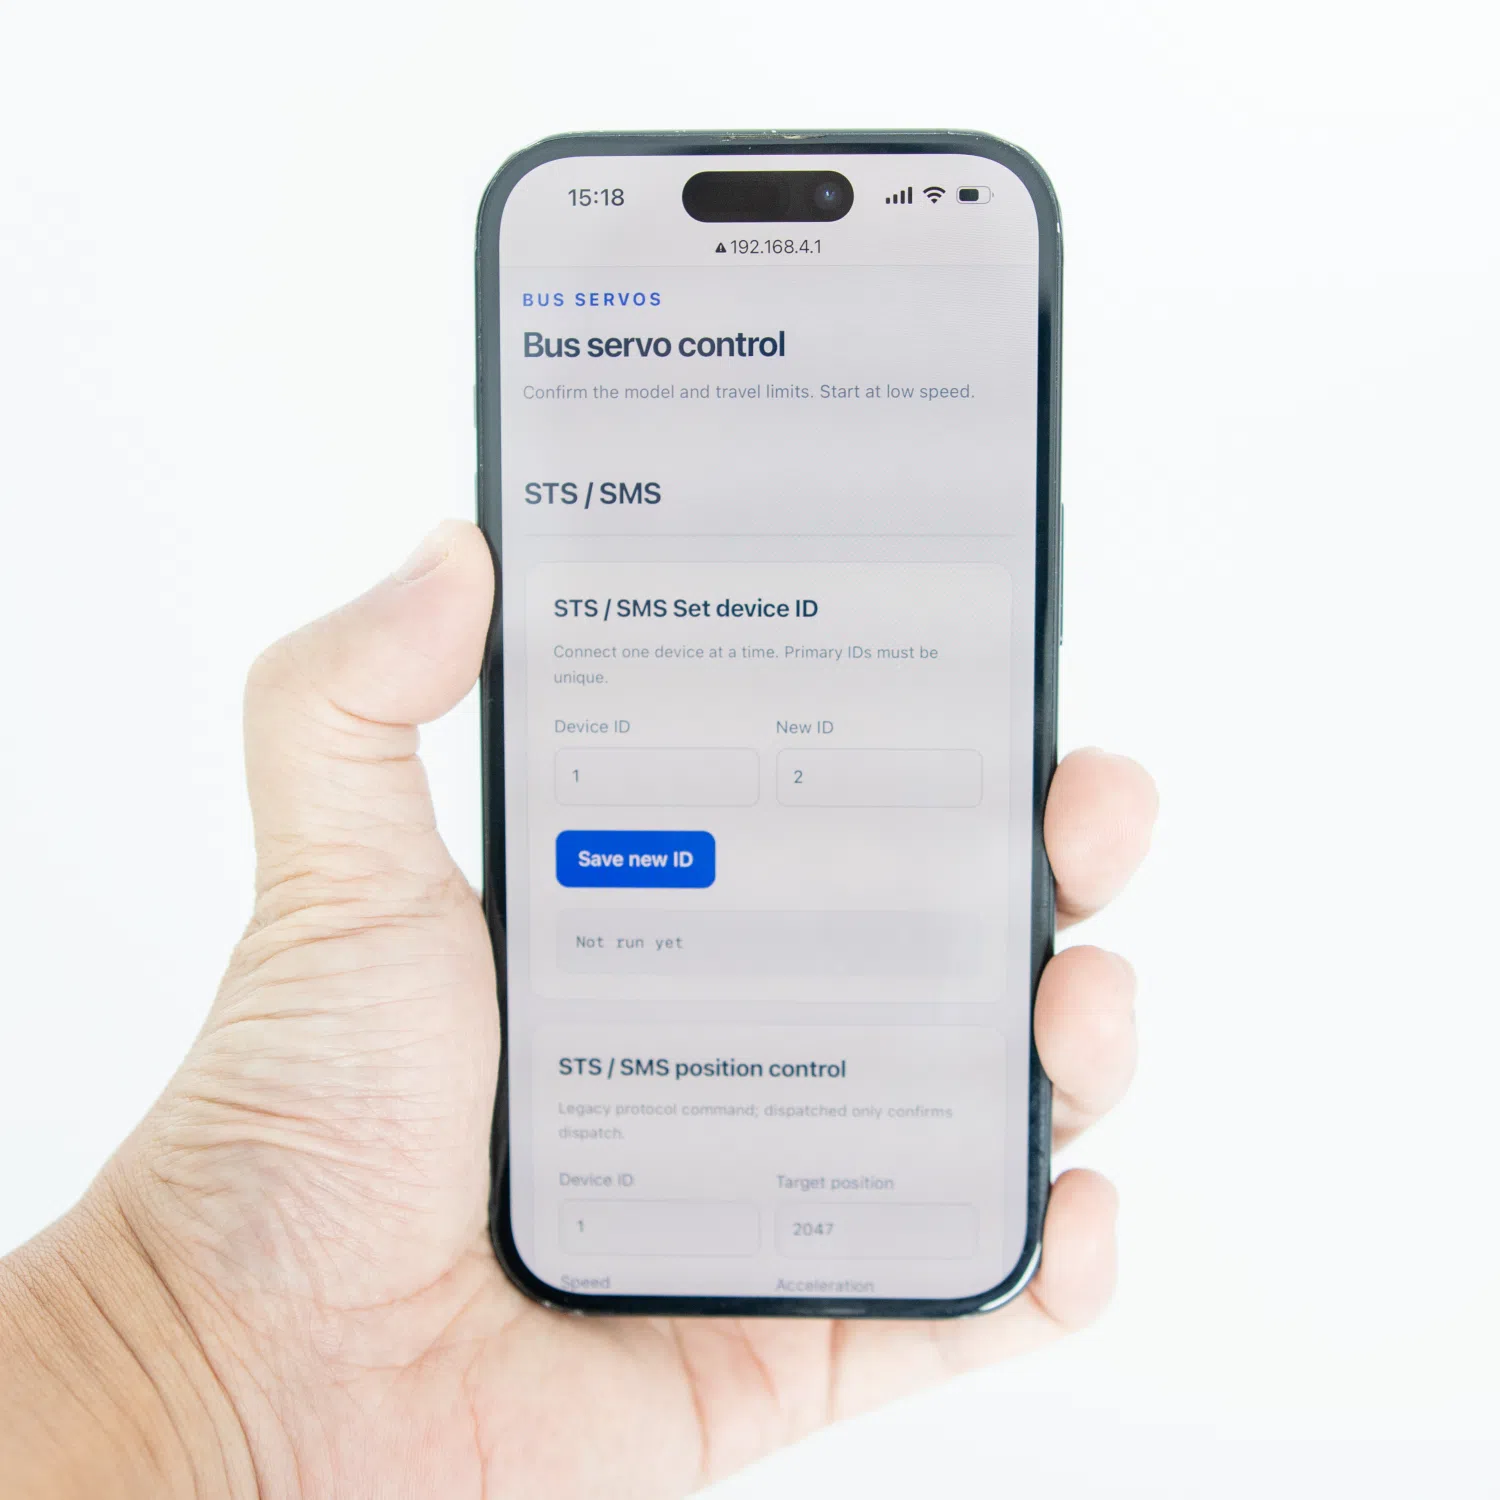
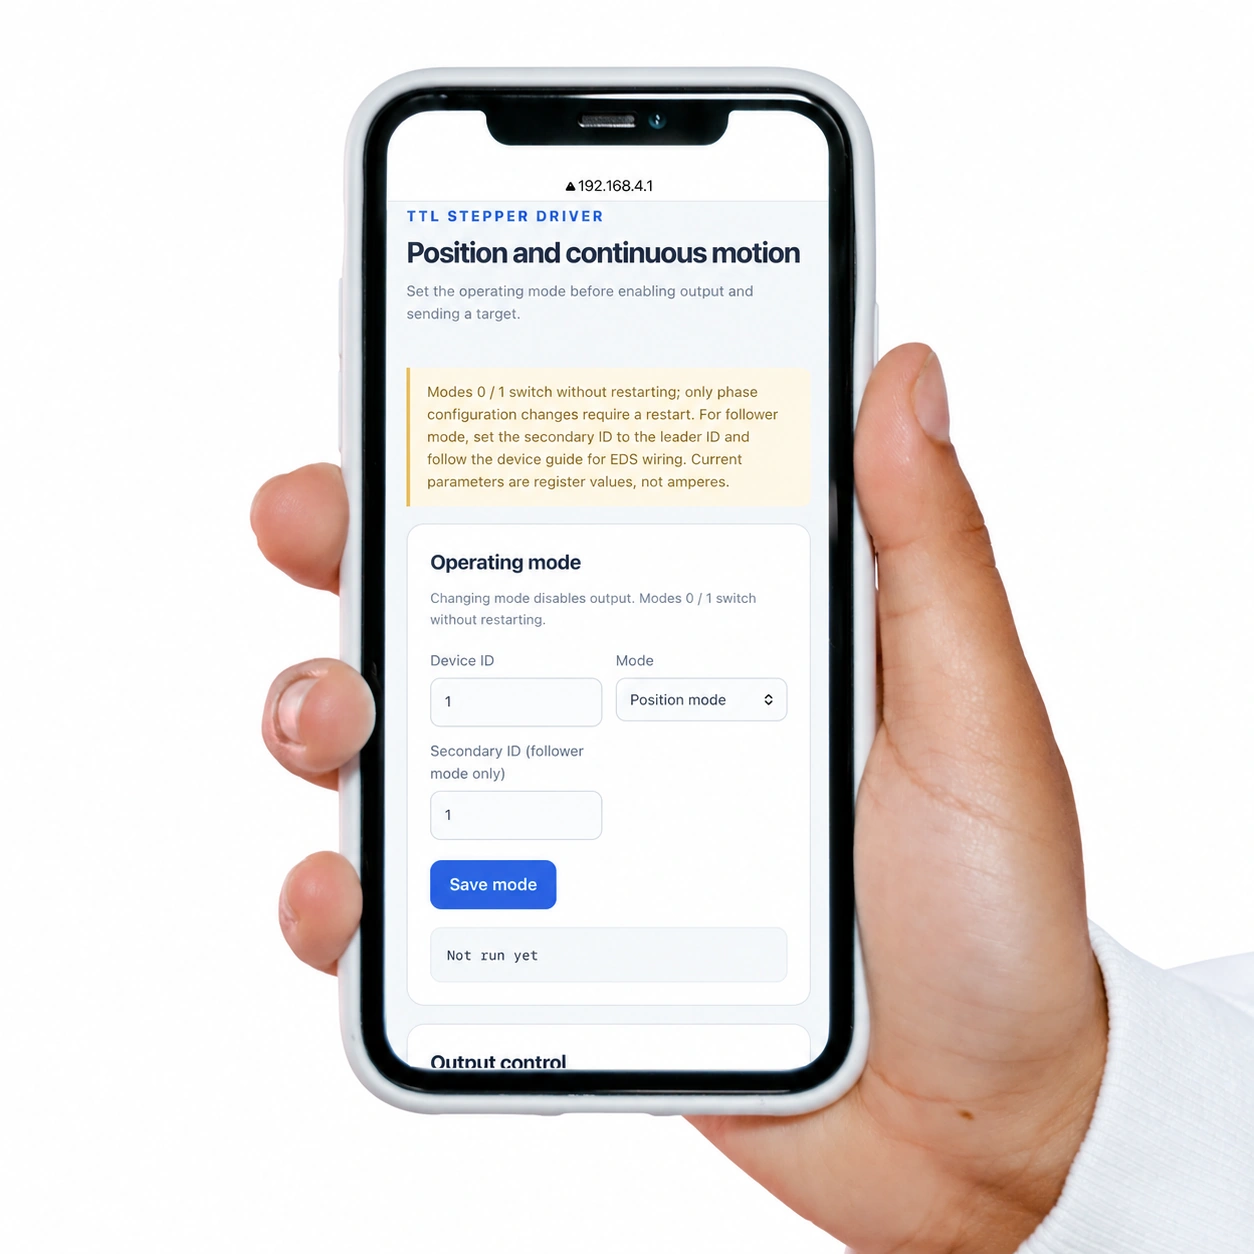
update

diff --git a/public/product-pages/RoboCore-S3/en/index.html b/public/product-pages/RoboCore-S3/en/index.html
@@ -26,7 +26,7 @@
   <figure class="product-photo hero-product"><img src="../assets/hero-board-antenna.webp" width="1000" height="1000" alt="RoboCore S3 connected to its external panel-mount antenna" fetchpriority="high" decoding="async"></figure>
 </section>
 <div class="wrap metrics"><div><strong>5–48V</strong><span>Wide input voltage range</span></div><div><strong>47 × 52 mm</strong><span>Compact footprint. Just 15.8 g.</span></div><div><strong>Well connected</strong><span>Multiple device buses on one board</span></div><div><strong>Open source</strong><span>Explore, adapt and build on the code</span></div></div>
-<section class="band-tint" id="role"><div class="wrap section"><div class="section-title"><p class="eyebrow">Overview</p><h2>Three ways to build</h2><p>From mobile robots to arms and pan-tilt systems, choose the workflow that fits your project.</p></div><div class="three-columns role-options"><article><span class="number">A / Start without code</span><figure class="product-photo role-photo"><img src="../assets/web_phone.webp" width="1500" height="1500" alt="Bus servo controls in a phone browser" loading="lazy" decoding="async"></figure><h3>Control from your browser</h3><p>Find devices, read feedback and adjust settings—no code required.</p></article><article><span class="number">B / Connect a host computer</span><figure class="product-photo role-photo code-photo"><img src="../assets/simple_json.webp" width="429" height="275" alt="Python example sending a JSON command to update the OLED" loading="lazy" decoding="async"></figure><h3>Send JSON commands</h3><p>Connect a PC, Raspberry Pi or Jetson and control your robot with a few lines of code.</p></article><article><span class="number">C / Build custom firmware</span><figure class="product-photo role-photo"><img src="../assets/robot_project.webp" width="1500" height="1500" alt="A custom phone control interface with a mobile robot" loading="lazy" decoding="async"></figure><h3>Run your own firmware</h3><p>Move low-level kinematics and interpolation onto RoboCore S3, freeing your host computer to focus on planning and decisions. Build a control stack around your robot's needs.</p></article></div><div class="architecture-strip" aria-label="Host and controller architecture overview, not a wiring diagram"><div><small>Host computer</small><strong>Vision · Planning · Decisions</strong></div><span aria-hidden="true">↔</span><div class="strip-core"><small>RoboCore S3</small><strong>Fast control loops · Feedback</strong></div><span aria-hidden="true">↔</span><div><small>Bus devices</small><strong>Actuators · Sensors</strong></div></div><p class="caption">Split high-level processing and device control between a host and RoboCore S3, or run simpler tasks on the board alone.</p></div></section>
+<section class="band-tint" id="role"><div class="wrap section"><div class="section-title"><p class="eyebrow">Overview</p><h2>Three ways to build</h2><p>From mobile robots to arms and pan-tilt systems, choose the workflow that fits your project.</p></div><div class="three-columns role-options"><article><span class="number">A / Start without code</span><figure class="product-photo role-photo"><img src="../assets/web_phone.webp" width="1254" height="1254" alt="Stepper driver controls in a phone browser" loading="lazy" decoding="async"></figure><h3>Control from your browser</h3><p>Find devices, read feedback and adjust settings—no code required.</p></article><article><span class="number">B / Connect a host computer</span><figure class="product-photo role-photo"><img src="../assets/simple_json.webp" width="1254" height="1254" alt="Illustration of a laptop displaying a JSON bus-device scan command" loading="lazy" decoding="async"></figure><h3>Send JSON commands</h3><p>Connect a PC, Raspberry Pi or Jetson and control your robot with a few lines of code.</p></article><article><span class="number">C / Build custom firmware</span><figure class="product-photo role-photo"><img src="../assets/robot_project.webp" width="1500" height="1500" alt="A custom phone control interface with a mobile robot" loading="lazy" decoding="async"></figure><h3>Run your own firmware</h3><p>Move low-level kinematics and interpolation onto RoboCore S3, freeing your host computer to focus on planning and decisions. Build a control stack around your robot's needs.</p></article></div><div class="architecture-strip" aria-label="Host and controller architecture overview, not a wiring diagram"><div><small>Host computer</small><strong>Vision · Planning · Decisions</strong></div><span aria-hidden="true">↔</span><div class="strip-core"><small>RoboCore S3</small><strong>Fast control loops · Feedback</strong></div><span aria-hidden="true">↔</span><div><small>Bus devices</small><strong>Actuators · Sensors</strong></div></div><p class="caption">Split high-level processing and device control between a host and RoboCore S3, or run simpler tasks on the board alone.</p></div></section>
 <section class="band-light" id="devices"><div class="wrap section"><div class="section-title"><p class="eyebrow">Interfaces and capabilities</p><h2>One controller, multiple device buses</h2></div><div class="split"><figure class="product-photo"><img src="../assets/first-connection.webp" width="1695" height="1000" alt="RoboCore S3 connected to bus devices, power and an external antenna" loading="lazy" decoding="async"><figcaption>Example setup. Bus devices and external power supply are not included.</figcaption></figure><div class="engineering-notes"><article><h3>TTL / RS485 / CAN</h3><p>Work with a range of bus devices. Examples cover FEETECH SCS, STS, SMS and HLS servos, plus LYGION stepper drivers, TTL Node, E02 encoders, TTL IMU and PowerHub devices. Add support for other devices by implementing their protocols.</p></article><article><h3>Onboard six-axis IMU</h3><p>The QMI8658A provides live three-axis acceleration and angular velocity readings, with browser-based orientation viewing and JSON access.</p></article><article><h3>GPIO / I²C expansion</h3><p>Add your own peripherals, or use the UI module in Kit 2 for a display, button input and audible alerts.</p></article><article><h3>Two USB-C ports</h3><p>Use the UART port for programming and debugging with automatic bootloader entry, and native USB for USB CDC communication.</p></article></div></div></div></section>
 <section class="band-tint" id="start"><div class="wrap section"><div class="section-title"><p class="eyebrow">Quick start</p><h2>Open a browser. Take control.</h2><p>The built-in Web app works on phones, tablets and computers. No client software to install.</p></div><ol class="steps"><li><h3>Connect and power up</h3><p>Connect your devices and switch on the power. RoboCore S3 creates its own Wi-Fi hotspot.</p></li><li><h3>Join the Wi-Fi network</h3><p>Default network: <code>Robot</code>. Password: <code>12345678</code>.</p></li><li><h3>Open the Web app</h3><p>Go to <code>192.168.4.1</code> in your browser, select English, then scan device IDs and read their feedback.</p></li></ol><div class="start-gallery"><figure class="product-photo"><img src="../assets/easy_pad_en.webp" width="1500" height="1500" alt="RoboCore S3 English Web controls on a tablet beside bus devices" loading="lazy" decoding="async"><figcaption>Tablet view · A layout that makes room for more</figcaption></figure><figure class="product-photo"><img src="../assets/easy_phone_en.webp" width="1500" height="1500" alt="RoboCore S3 English Web controls on a phone beside bus devices" loading="lazy" decoding="async"><figcaption>Phone view · Controls that fit your screen</figcaption></figure></div><div class="start-footer"><div><h3>The same controls on every screen</h3><p>Scan devices, read feedback and send commands. Switch between English and Chinese at any time.</p></div><a class="text-link" href="https://wiki.lygion.ai/en/reference/bus-devices/robocore-s3/quickstart/" target="_blank" rel="noopener noreferrer">Read the quick-start guide ↗</a></div></div></section>
 <section class="band-light" id="wireless"><div class="wrap section"><div class="split"><div><p class="eyebrow">Wireless connectivity</p><h2>Keep your antenna outside the enclosure</h2><p>Designed for robots with metal enclosures. The included antenna mounts through a Ø6.2 mm panel hole; other 2.4 GHz antennas with an IPEX1 connector can also be used.</p><div class="network-options"><div><strong>Direct connection · AP mode</strong><span>Connect on site without a router</span></div><div><strong>Join your network · STA mode</strong><span>Enter your router's network name and password in Web settings</span></div><div><strong>AP + STA</strong><span>Run a hotspot while staying connected to your router</span></div></div></div><figure class="product-photo"><img src="../assets/antenna-installation.webp" width="1333" height="1000" alt="A panel-mounted antenna on a metal robot enclosure" loading="lazy" decoding="async"></figure></div></div></section>

diff --git a/public/product-pages/RoboCore-S3/index.html b/public/product-pages/RoboCore-S3/index.html
@@ -25,7 +25,7 @@
   <figure class="product-photo hero-product"><img src="assets/hero-board-antenna.webp" width="1000" height="1000" alt="RoboCore S3 主板连接外部穿板天线" fetchpriority="high" decoding="async"></figure>
 </section>
 <div class="wrap metrics"><div><strong>5–48V</strong><span>支持宽电压输入</span></div><div><strong>47 × 52 mm</strong><span>紧凑尺寸，单板重量仅 15.8 g</span></div><div><strong>实用设计</strong><span>高集成度，可控制多种总线设备</span></div><div><strong>完全开源</strong><span>降低使用和开发门槛</span></div></div>
-<section class="band-tint" id="role"><div class="wrap section"><div class="section-title"><p class="eyebrow">产品概览</p><h2>支持多种使用方式</h2><p>适用于移动底盘、机械臂、云台等各类使用总线设备的机器人项目。</p></div><div class="three-columns role-options"><article><span class="number">方式A / 直接使用（最简单）</span><figure class="product-photo role-photo"><img src="assets/web_phone.webp" width="1500" height="1500" alt="手机浏览器中的总线舵机控制页面" loading="lazy" decoding="async"></figure><h3>浏览器调试</h3><p>扫描设备、读取反馈、设置参数，无需写代码。</p></article><article><span class="number">方式B / 接入上位机（最敏捷）</span><figure class="product-photo role-photo code-photo"><img src="assets/simple_json.webp" width="429" height="275" alt="Python 发送 JSON 指令更新 OLED 内容的示例代码" loading="lazy" decoding="async"></figure><h3>JSON 指令交互</h3><p>连接 PC、树莓派或 Jetson，仅需要简单编程即可由电脑控制机器人。</p></article><article><span class="number">方式C / 自定义开发（最高效）</span><figure class="product-photo role-photo"><img src="assets/robot_project.webp" width="1500" height="1500" alt="手机自定义控制界面与机器人底盘的实拍场景" loading="lazy" decoding="async"></figure><h3>运行自己的机器人固件</h3><p>RoboCore S3 可用于实现底层的运动学解算和插值计算，让上位机可以有更多的算力用于决策，提高机器人项目的开发效率和运行效率。</p></article></div><div class="architecture-strip" aria-label="大小脑架构示意，非接线图"><div><small>上位机</small><strong>视觉 · 规划 · 决策</strong></div><span aria-hidden="true">↔</span><div class="strip-core"><small>RoboCore S3</small><strong>高频运动学解算 · 反馈</strong></div><span aria-hidden="true">↔</span><div><small>总线设备</small><strong>执行器 · 传感器</strong></div></div><p class="caption">适用于高阶机器人的大小脑架构。简单任务也可由 RoboCore S3 主板独立运行。</p></div></section>
+<section class="band-tint" id="role"><div class="wrap section"><div class="section-title"><p class="eyebrow">产品概览</p><h2>支持多种使用方式</h2><p>适用于移动底盘、机械臂、云台等各类使用总线设备的机器人项目。</p></div><div class="three-columns role-options"><article><span class="number">方式A / 直接使用（最简单）</span><figure class="product-photo role-photo"><img src="assets/web_phone.webp" width="1254" height="1254" alt="手机浏览器中的步进驱动器控制页面" loading="lazy" decoding="async"></figure><h3>浏览器调试</h3><p>扫描设备、读取反馈、设置参数，无需写代码。</p></article><article><span class="number">方式B / 接入上位机（最敏捷）</span><figure class="product-photo role-photo"><img src="assets/simple_json.webp" width="1254" height="1254" alt="笔记本电脑显示用于扫描总线设备的 JSON 指令示意图" loading="lazy" decoding="async"></figure><h3>JSON 指令交互</h3><p>连接 PC、树莓派或 Jetson，仅需要简单编程即可由电脑控制机器人。</p></article><article><span class="number">方式C / 自定义开发（最高效）</span><figure class="product-photo role-photo"><img src="assets/robot_project.webp" width="1500" height="1500" alt="手机自定义控制界面与机器人底盘的实拍场景" loading="lazy" decoding="async"></figure><h3>运行自己的机器人固件</h3><p>RoboCore S3 可用于实现底层的运动学解算和插值计算，让上位机可以有更多的算力用于决策，提高机器人项目的开发效率和运行效率。</p></article></div><div class="architecture-strip" aria-label="大小脑架构示意，非接线图"><div><small>上位机</small><strong>视觉 · 规划 · 决策</strong></div><span aria-hidden="true">↔</span><div class="strip-core"><small>RoboCore S3</small><strong>高频运动学解算 · 反馈</strong></div><span aria-hidden="true">↔</span><div><small>总线设备</small><strong>执行器 · 传感器</strong></div></div><p class="caption">适用于高阶机器人的大小脑架构。简单任务也可由 RoboCore S3 主板独立运行。</p></div></section>
 <section class="band-light" id="devices"><div class="wrap section"><div class="section-title"><p class="eyebrow">接口与主要功能</p><h2>控制多种总线设备</h2></div><div class="split"><figure class="product-photo"><img src="assets/first-connection.webp" width="1695" height="1000" alt="RoboCore S3 连接总线设备、电源线与外接天线" loading="lazy" decoding="async"><figcaption>接线应用示例；总线设备与外接电源需另备</figcaption></figure><div class="engineering-notes"><article><h3>TTL / RS485 / CAN</h3><p>支持控制多种主流总线设备。当前例程覆盖 FEETECH（飞特） SCS、STS、SMS、HLS 舵机及灵影步进驱动器、TTL Node、E02 编码器、TTL IMU、PowerHub 等总线设备；其他设备可按协议开发。</p></article><article><h3>板载六轴 IMU</h3><p>QMI8658A 提供 3 轴加速度与 3 轴角速度实时数据反馈，支持网页姿态显示和 JSON 数据读取。</p></article><article><h3>GPIO / I²C 扩展</h3><p>扩展自定义外设，或使用套装二的 UI 模块，实现显示、按键输入和声音提示。</p></article><article><h3>双 Type-C 接口</h3><p>UART 口用于下载调试，支持自动下载；原生 USB 口用于 USB CDC 通信。</p></article></div></div></div></section>
 <section class="band-tint" id="start"><div class="wrap section"><div class="section-title"><p class="eyebrow">快速上手</p><h2>零门槛上手使用</h2><p>出厂内置 Web 应用。手机、平板、电脑均可使用，无需安装客户端。</p></div><ol class="steps"><li><h3>连接设备与电源</h3><p>插电、开机、RoboCore S3 上电后会自动建立热点。</p></li><li><h3>连接 Wi-Fi</h3><p>默认热点名称 <code>Robot</code>，密码 <code>12345678</code>。</p></li><li><h3>打开浏览器</h3><p>浏览器输入 <code>192.168.4.1</code>，切换中文，扫描 ID 并读取反馈。</p></li></ol><div class="start-gallery"><figure class="product-photo"><img src="assets/easy_pad_cn.webp" width="1500" height="1500" alt="平板浏览器中的 RoboCore S3 中文控制界面与总线设备" loading="lazy" decoding="async"><figcaption>平板端中文 Web 应用，宽屏自适应</figcaption></figure><figure class="product-photo"><img src="assets/easy_phone_cn.webp" width="1500" height="1500" alt="手机浏览器中的 RoboCore S3 中文控制界面与总线设备" loading="lazy" decoding="async"><figcaption>手机端中文 Web 应用，窄屏自适应</figcaption></figure></div><div class="start-footer"><div><h3>Web 应用支持跨平台使用</h3><p>扫描设备、读取反馈、发送指令，支持中英文切换。</p></div><a class="text-link" href="https://wiki.lygion.ai/reference/bus-devices/robocore-s3/quickstart/" target="_blank" rel="noopener noreferrer">查看完整上手教程 ↗</a></div></div></section>
 <section class="band-light" id="wireless"><div class="wrap section"><div class="split"><div><p class="eyebrow">无线连接</p><h2>Wi-Fi 无线通信，支持穿板安装</h2><p>适用于金属外壳机器人。随附天线支持 Ø6.2 mm 孔径穿板安装，用户也可选用其他 2.4GHz IPEX1 接口天线。</p><div class="network-options"><div><strong>热点直连（AP 模式）</strong><span>无需路由器，现场调试</span></div><div><strong>接入局域网（STA 模式）</strong><span>在 Web 设置中配置路由器热点名称和密码</span></div><div><strong>AP + STA</strong><span>自建热点与路由器连接可同时支持</span></div></div></div><figure class="product-photo"><img src="assets/antenna-installation.webp" width="1333" height="1000" alt="机器人金属外壳上的穿板天线安装实例" loading="lazy" decoding="async"></figure></div></div></section>

diff --git a/public/product-pages/RoboCore-S3/styles.css b/public/product-pages/RoboCore-S3/styles.css
@@ -217,3 +217,45 @@
  .usability-grid h3{grid-column:2;margin:0;font-size:18px}
  .usability-grid p{grid-column:1/-1;margin-top:6px}
 }
+
+/* Mobile density: keep related scenes together without cropping hardware images. */
+@media(max-width:720px){
+ .wrap{width:calc(100% - 32px)}
+ .hero{gap:18px;padding-block:28px}
+ .hero-product{width:min(100%,240px);justify-self:center}
+ .section,.faq.section,#usability .section{padding-block:34px}
+ .section-title{margin-bottom:22px}
+ .section-title .eyebrow{margin-bottom:12px}
+ .role-options{gap:18px}
+ .role-options article{display:grid;grid-template-columns:104px minmax(0,1fr);gap:8px 14px;align-items:start;padding-top:16px}
+ .role-options .number{grid-column:1/-1;margin:0;font-size:12px}
+ .role-options .role-photo{grid-column:1;grid-row:2/4;margin:0}
+ .role-options h3{grid-column:2;margin:0;font-size:17px}
+ .role-options article>p{grid-column:2;font-size:13px;line-height:1.75}
+ .role-photo.code-photo img{padding:4px}
+ .start-gallery{grid-template-columns:repeat(2,minmax(0,1fr));gap:12px}
+ .start-gallery figcaption{font-size:12px;line-height:1.6;margin-top:8px}
+ #devices .split,.feature-split,.split{gap:22px}
+ #devices .split>.product-photo,#wireless .split>.product-photo,
+ #imu .product-photo,#expansion .feature-split>.product-photo,#power .product-photo{
+  width:100%;max-width:360px;justify-self:center
+ }
+ #devices .product-photo img,#wireless .product-photo img,
+ #imu .product-photo img,#expansion .product-photo img,#power .product-photo img{max-height:240px}
+ .communication-grid{grid-template-columns:repeat(2,minmax(0,1fr));gap:16px}
+ .communication-grid article>span{margin-bottom:6px}
+ .communication-grid h3{margin-bottom:8px;font-size:17px}
+ .communication-grid p{margin:0}
+ .kit-grid article{padding:18px;min-width:0}
+ .kit-product{max-width:260px;margin:16px auto}
+ .kit-product img{max-height:180px}
+ .kit-grid ul{line-height:1.85}
+ .dimension-panel{padding:16px}
+ .dimension-panel .product-photo{max-width:280px}
+}
+@media(min-width:480px) and (max-width:720px){
+ .role-options article{grid-template-columns:140px minmax(0,1fr)}
+ .kit-grid{grid-template-columns:repeat(2,minmax(0,1fr));gap:14px}
+ .kit-grid h3{font-size:18px}
+ .kit-grid article>p,.kit-grid ul{font-size:13px}
+}
